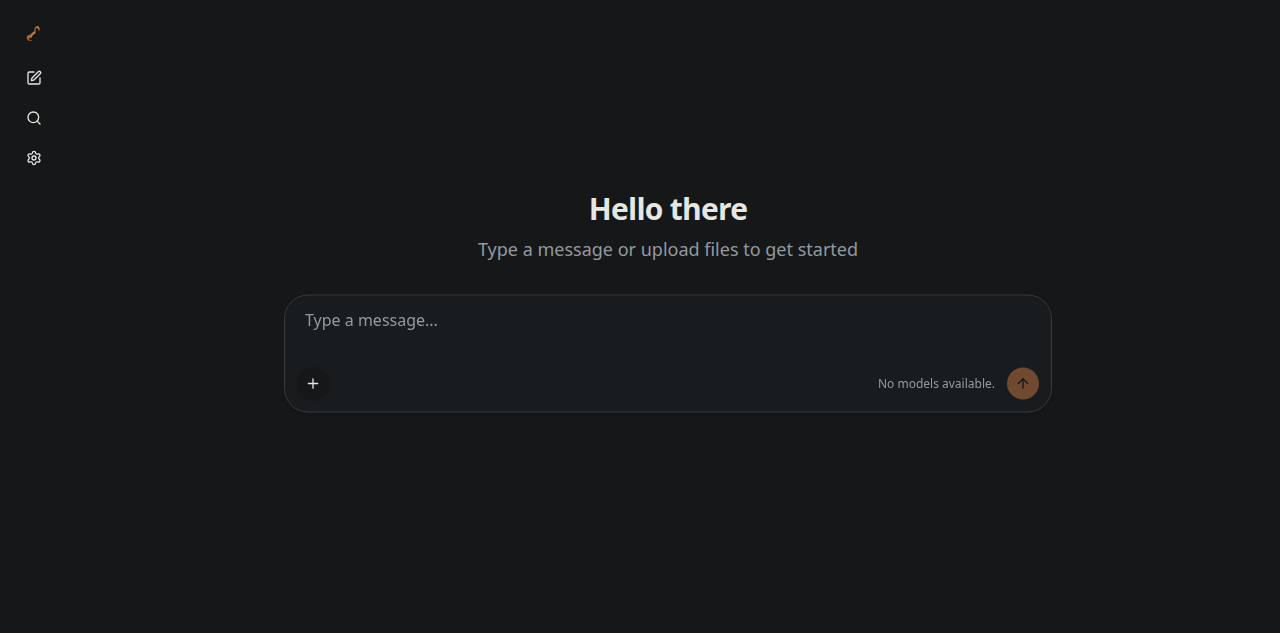
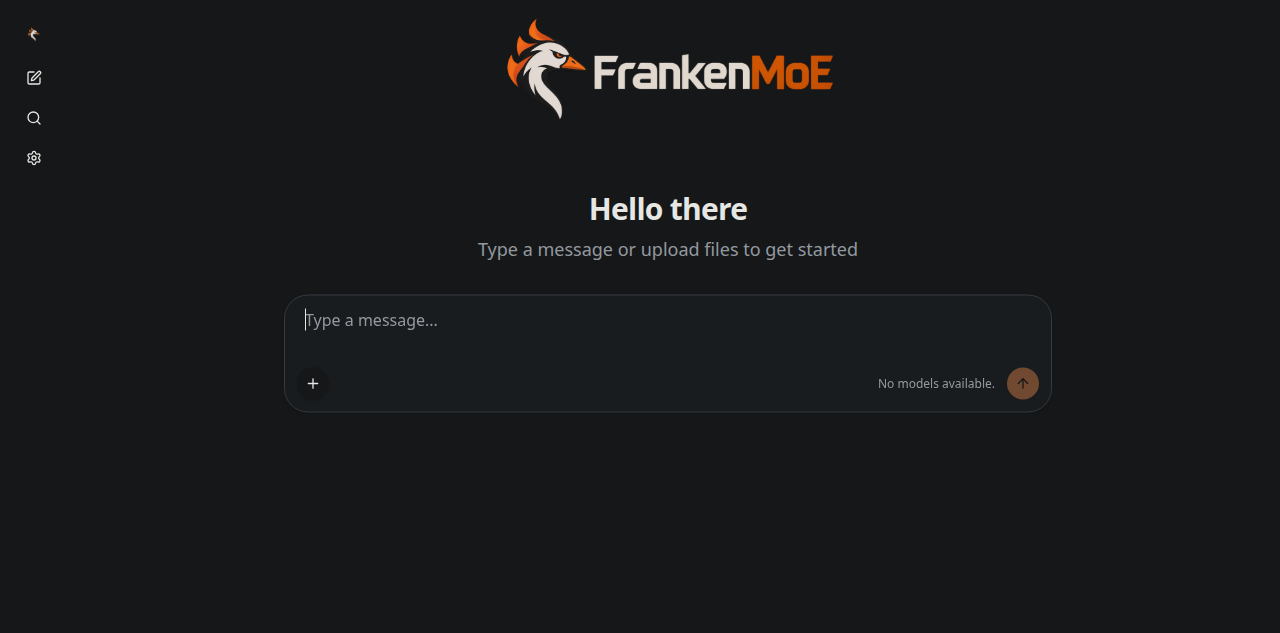
EXP-2026-11-19-1489: the supplied goose artwork replaces the temporary marks
ui/franken-ember/assets/gooselogo.png (1254x1254, RGBA) is the small mark in the original logo slot; gooselogo-big.png (2172x724,
RGBA) is the branding block above the chat. The wide one is an absolutely positioned ::before on .chat-screen, so it cannot move
the composer, the greeting or any control - measured: 11 of 11 shared controls keep identical coordinates and sizes, none moved.
It is hidden below 768 px, where it would take a third of the screen.

The theme file is now named by its content hash (ember.<hash>.css): the bundle is immutable-cached, and the first attempt served
the old CSS from cache, which looked exactly like a broken change.

Changed region(s): [[0.375, 0.03, 0.6562, 0.1801], [0.0, 0.03, 0.0312, 0.06]]

diff --git a/ui/franken-ember/theme/ember.css b/ui/franken-ember/theme/ember.css
@@ -103,7 +103,7 @@
  * hidden. A wordmark is added beside it, absolutely positioned and clipped by the sidebar, so it can never push a control.
  */
 div.h-4\.5.w-4\.5.md\:h-4.md\:w-4 > svg:not([class]) {
-	background: url("./ember-mark.svg") center / 1.0625rem 1.0625rem no-repeat;
+	background: url("./gooselogo.png") center / 1.0625rem 1.0625rem no-repeat;
 }
 
 div.h-4\.5.w-4\.5.md\:h-4.md\:w-4 > svg:not([class]) > * {
@@ -138,6 +138,38 @@ div.px-2.flex.items-center.justify-between:has(> div > button > div > svg:not([c
 /* On a narrow screen only the emblem is shown, which the specification allows. */
 @media (max-width: 767px) {
 	div.px-2.flex.items-center.justify-between:has(> div > button > div > svg:not([class]))::after {
+		content: none;
+	}
+}
+
+/* ---------------------------------------------------------------------------------------------------------------------
+ * The supplied artwork. The small mark goes into the original logo slot above; the wide mark is a branding block at the top of
+ * the chat area.
+ *
+ * The block is absolutely positioned inside .chat-screen, which already exists: an absolutely positioned element cannot move
+ * another one, so the composer, the greeting and every control keep their coordinates whatever size this artwork takes. It is
+ * pointer-transparent for the same reason.
+ */
+.chat-screen {
+	position: relative;
+}
+
+.chat-screen::before {
+	content: "";
+	position: absolute;
+	top: 0.75rem;
+	left: 50%;
+	transform: translateX(-50%);
+	width: min(22rem, 52%);
+	aspect-ratio: 3 / 1;
+	background: url("./gooselogo-big.png") center / contain no-repeat;
+	pointer-events: none;
+	opacity: 0.96;
+}
+
+/* A phone gets the emblem only; the wide mark would take a third of the screen. */
+@media (max-width: 767px) {
+	.chat-screen::before {
 		content: none;
 	}
 }

diff --git a/ui/franken-ember/README.md b/ui/franken-ember/README.md
@@ -50,6 +50,12 @@ into that same box as a background and hides the original paths, so the box, the
 by the sidebar. It appears when the panel is wide enough and disappears into the clip when collapsed; below 768 px only the
 emblem is shown, which the specification allows.
 
+The artwork is the supplied pair: `assets/gooselogo.png` (1254×1254, RGBA) in the small slot and `assets/gooselogo-big.png`
+(2172×724, RGBA) as the branding block. The wide one is an absolutely positioned `::before` on `.chat-screen` — an absolutely
+positioned element cannot move another, so the composer, the greeting and every control keep their coordinates; it is hidden
+below 768 px where it would take a third of the screen. Sizes are set only on the artwork itself (1.0625rem square for the mark,
+`min(22rem, 52%)` at 3:1 for the block).
+
 ## Proof that the layout is untouched
 
 Every button, link, input and textarea was measured in the original page and in the themed one at the same viewport:
@@ -77,3 +83,12 @@ Nothing needs undoing: the shipped bundle was never modified. Delete `ui/franken
 
 The runtime, Goose, CUDA and CPU backends, the accepted builds and checkpoints, and any agent working on them. `build.sh` reads
 the bundle and writes only inside `ui/franken-ember/`.
+
+Re-measured after the supplied artwork and the branding block were added: 11 of 11 controls that both pages share have identical
+coordinates and sizes, and none moved. The two entries present only in the original capture are application state (`Retry` and a
+duplicate selector match), not geometry.
+
+## Theme cache
+
+The bundle's assets are immutable-cached by the browser, so the theme file is named `ember.<sha256prefix>.css` and the link in
+`index.html` points at the current hash. An edit to the CSS always lands as a new URL; a stale theme cannot survive a rebuild.
